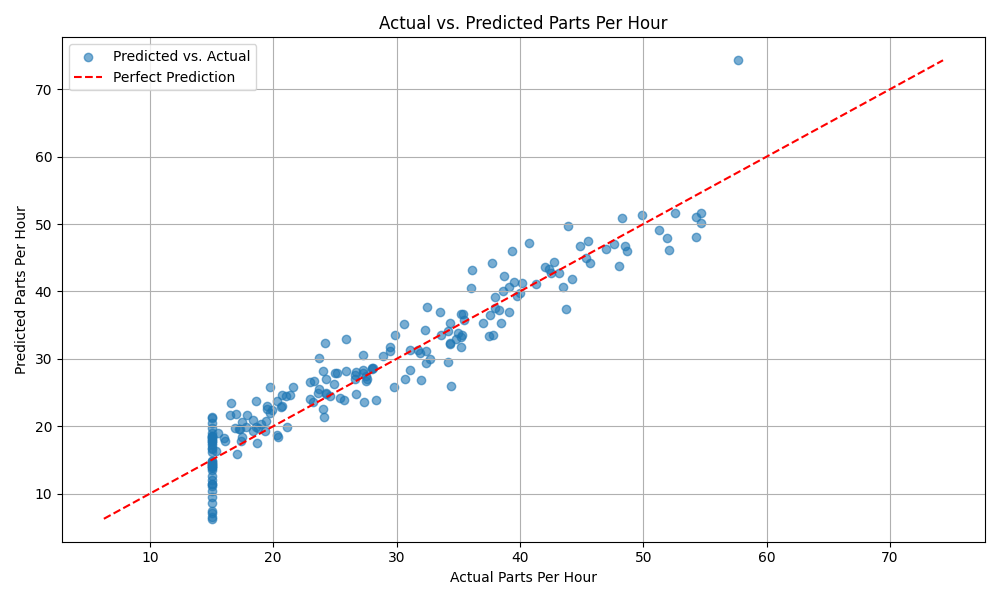
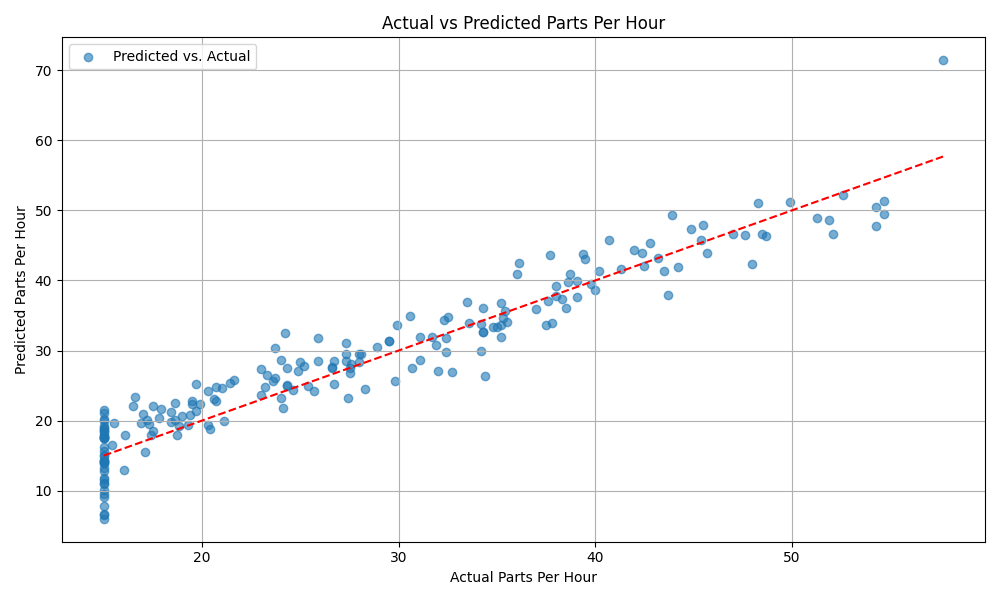
Add files via upload

diff --git a/app.py b/app.py
@@ -2,127 +2,105 @@ import streamlit as st
 import pickle
 import pandas as pd
 import numpy as np
-import os
 
-# Define the path to the saved model
+# --- Load Model and Feature Order ---
 model_path = 'linear_regression_model_all_features.pkl'
+features_path = 'trained_features.pkl'
 
-# Load the saved model
 try:
-    with open(model_path, 'rb') as file:
-        model = pickle.load(file)
-except FileNotFoundError:
-    st.error(f"Error: Model file '{model_path}' not found. Please run the Python script in the Canvas first.")
+    with open(model_path, 'rb') as f:
+        model = pickle.load(f)
+    with open(features_path, 'rb') as f:
+        trained_features = pickle.load(f)
+except FileNotFoundError as e:
+    st.error(f"Missing file: {e}")
     st.stop()
-except Exception as e:
-    st.error(f"Error loading model: {e}")
-    st.stop()
 
-# Set up the Streamlit app title and description
-st.title('Manufacturing Parts Per Hour Predictor')
-st.write('Use this app to predict the number of parts produced per hour based on manufacturing parameters.')
+# --- Streamlit UI ---
+st.title("Manufacturing Parts Per Hour Predictor")
+st.write("Predict number of parts produced per hour based on manufacturing parameters.")
 
-# Create a dictionary to hold the feature names and their default values.
-# This ensures that the order of the features matches the trained model.
-# NOTE: The one-hot encoded features must be included here with a default of 0.
-feature_defaults = {
-    'Injection_Temperature': 220.0,
-    'Injection_Pressure': 130.0,
-    'Cycle_Time': 30.0,
-    'Cooling_Time': 15.0,
-    'Material_Viscosity': 350.0,
-    'Ambient_Temperature': 25.0,
-    'Machine_Age': 5.0,
-    'Operator_Experience': 10.0,
-    'Maintenance_Hours': 50.0,
-    'Temperature_Pressure_Ratio': 1.692,
-    'Total_Cycle_Time': 45.0,
-    'Efficiency_Score': 0.05,
-    'Machine_Utilization': 0.6,
-    # One-hot encoded categorical features
-    'Shift_Night': 0,
-    'Shift_Evening': 0,
-    'Machine_Type_Type_B': 0,
-    'Machine_Type_Type_C': 0,
-    'Material_Grade_Standard': 0,
-    'Day_of_Week_Monday': 0,
-    'Day_of_Week_Saturday': 0,
-    'Day_of_Week_Sunday': 0,
-    'Day_of_Week_Thursday': 0,
-    'Day_of_Week_Tuesday': 0,
-    'Day_of_Week_Wednesday': 0
-}
-
-# Define a function to get user input for all features
+# --- User Input ---
 def user_input_features():
-    st.sidebar.header('Input Parameters')
-    
-    # Get user inputs for numerical features
-    injection_temp = st.sidebar.slider('Injection Temperature', 150.0, 300.0, feature_defaults['Injection_Temperature'])
-    injection_pressure = st.sidebar.slider('Injection Pressure', 100.0, 200.0, feature_defaults['Injection_Pressure'])
-    cycle_time = st.sidebar.slider('Cycle Time', 15.0, 60.0, feature_defaults['Cycle_Time'])
-    cooling_time = st.sidebar.slider('Cooling Time', 5.0, 30.0, feature_defaults['Cooling_Time'])
-    material_viscosity = st.sidebar.slider('Material Viscosity', 200.0, 500.0, feature_defaults['Material_Viscosity'])
-    ambient_temp = st.sidebar.slider('Ambient Temperature', 20.0, 35.0, feature_defaults['Ambient_Temperature'])
-    machine_age = st.sidebar.slider('Machine Age', 0.0, 20.0, feature_defaults['Machine_Age'])
-    operator_exp = st.sidebar.slider('Operator Experience', 0.0, 25.0, feature_defaults['Operator_Experience'])
-    maintenance_hours = st.sidebar.slider('Maintenance Hours', 0.0, 100.0, feature_defaults['Maintenance_Hours'])
-    
-    # Get user inputs for categorical features using radio buttons or selectboxes
-    shift = st.sidebar.radio('Shift', ['Day', 'Evening', 'Night'])
-    machine_type = st.sidebar.radio('Machine Type', ['Type_A', 'Type_B', 'Type_C'])
-    material_grade = st.sidebar.radio('Material Grade', ['Economy', 'Standard'])
-    day_of_week = st.sidebar.selectbox('Day of Week', ['Monday', 'Tuesday', 'Wednesday', 'Thursday', 'Friday', 'Saturday', 'Sunday'])
+    st.sidebar.header("Input Parameters")
 
-    # Create a dictionary with the inputs, including one-hot encoded values
-    input_data = {
-        'Injection_Temperature': injection_temp,
-        'Injection_Pressure': injection_pressure,
-        'Cycle_Time': cycle_time,
-        'Cooling_Time': cooling_time,
-        'Material_Viscosity': material_viscosity,
-        'Ambient_Temperature': ambient_temp,
-        'Machine_Age': machine_age,
-        'Operator_Experience': operator_exp,
-        'Maintenance_Hours': maintenance_hours,
-        # Calculated features
-        'Temperature_Pressure_Ratio': injection_temp / injection_pressure,
-        'Total_Cycle_Time': cycle_time + cooling_time,
-        'Efficiency_Score': (injection_temp / injection_pressure) / cycle_time,
-        'Machine_Utilization': (cycle_time / (cycle_time + cooling_time + 10)) # A simplified example
-    }
-    
-    # Add one-hot encoded features
-    input_data['Shift_Night'] = 1 if shift == 'Night' else 0
-    input_data['Shift_Evening'] = 1 if shift == 'Evening' else 0
-    input_data['Machine_Type_Type_B'] = 1 if machine_type == 'Type_B' else 0
-    input_data['Machine_Type_Type_C'] = 1 if machine_type == 'Type_C' else 0
-    input_data['Material_Grade_Standard'] = 1 if material_grade == 'Standard' else 0
-    
-    days = ['Monday', 'Tuesday', 'Wednesday', 'Thursday', 'Saturday', 'Sunday']
-    for day in days:
-        input_data[f'Day_of_Week_{day}'] = 1 if day_of_week == day else 0
+    # Base numerical inputs
+    injection_temp = st.sidebar.slider('Injection Temperature', 150.0, 300.0, 220.0)
+    injection_pressure = st.sidebar.slider('Injection Pressure', 100.0, 200.0, 130.0)
+    cycle_time = st.sidebar.slider('Cycle Time', 15.0, 60.0, 30.0)
+    cooling_time = st.sidebar.slider('Cooling Time', 5.0, 30.0, 15.0)
+    material_viscosity = st.sidebar.slider('Material Viscosity', 200.0, 500.0, 350.0)
+    ambient_temp = st.sidebar.slider('Ambient Temperature', 20.0, 35.0, 25.0)
+    machine_age = st.sidebar.slider('Machine Age', 0.0, 20.0, 5.0)
+    operator_exp = st.sidebar.slider('Operator Experience', 0.0, 25.0, 10.0)
+    maintenance_hours = st.sidebar.slider('Maintenance Hours', 0.0, 100.0, 50.0)
 
-    # The model was trained with 'Friday' as the reference category, so it's not needed here
-    
-    # Ensure all features from the trained model are present, even if not directly from user input
-    # This is a robust way to handle any missing features from the UI
-    final_data = {key: input_data.get(key, 0) for key in feature_defaults.keys()}
-    
-    # Convert the dictionary to a pandas DataFrame in the correct order
-    features = pd.DataFrame([final_data], columns=list(feature_defaults.keys()))
-    return features
+    # Categoricals
+    shift = st.sidebar.radio("Shift", ["Day", "Evening", "Night"])
+    machine_type = st.sidebar.radio("Machine Type", ["Type_A", "Type_B", "Type_C"])
+    material_grade = st.sidebar.radio("Material Grade", ["Economy", "Standard", "Premium"])
+    day_of_week = st.sidebar.selectbox("Day of Week", ["Monday","Tuesday","Wednesday","Thursday","Friday","Saturday","Sunday"])
 
-# Get the user's input features
+    # --- Build DataFrame with same columns/order as training ---
+    input_df = pd.DataFrame(np.zeros((1, len(trained_features))), columns=trained_features)
+
+    # Fill numerical
+    input_df['Injection_Temperature'] = injection_temp
+    input_df['Injection_Pressure'] = injection_pressure
+    input_df['Cycle_Time'] = cycle_time
+    input_df['Cooling_Time'] = cooling_time
+    input_df['Material_Viscosity'] = material_viscosity
+    input_df['Ambient_Temperature'] = ambient_temp
+    input_df['Machine_Age'] = machine_age
+    input_df['Operator_Experience'] = operator_exp
+    input_df['Maintenance_Hours'] = maintenance_hours
+
+    # Engineered features (must match training)
+    input_df['Temperature_Pressure_Ratio'] = injection_temp / injection_pressure
+    input_df['Total_Cycle_Time'] = cycle_time + cooling_time
+    input_df['Efficiency_Score'] = (injection_temp / injection_pressure) / cycle_time
+    input_df['Machine_Utilization'] = input_df['Total_Cycle_Time'] / (input_df['Total_Cycle_Time'] + 10)
+
+    # One-hot encoding
+    if shift == "Evening":
+        col = "Shift_Evening"
+        if col in input_df.columns: input_df[col] = 1
+    elif shift == "Night":
+        col = "Shift_Night"
+        if col in input_df.columns: input_df[col] = 1
+
+    if machine_type == "Type_B":
+        col = "Machine_Type_Type_B"
+        if col in input_df.columns: input_df[col] = 1
+    elif machine_type == "Type_C":
+        col = "Machine_Type_Type_C"
+        if col in input_df.columns: input_df[col] = 1
+
+    if material_grade == "Standard":
+        col = "Material_Grade_Standard"
+        if col in input_df.columns: input_df[col] = 1
+    elif material_grade == "Premium":
+        col = "Material_Grade_Premium"
+        if col in input_df.columns: input_df[col] = 1
+
+    if day_of_week != "Friday":
+        col = f"Day_of_Week_{day_of_week}"
+        if col in input_df.columns: input_df[col] = 1
+
+    return input_df
+
+# Collect user input
 df_input = user_input_features()
 
-# Display the user inputs
-st.subheader('User Input Parameters')
-st.write(df_input)
+# Show input
+st.subheader("User Input Parameters")
+st.dataframe(df_input)
 
-# Make a prediction
-prediction = model.predict(df_input)
-
-# Display the prediction
-st.subheader('Predicted Parts Per Hour')
-st.write(f'{prediction[0]:.2f} parts per hour')
+# --- Prediction ---
+try:
+    prediction = model.predict(df_input)
+    st.subheader("Predicted Parts Per Hour")
+    st.write(f"**{prediction[0]:.2f} parts per hour** 🚀")
+except Exception as e:
+    st.error(f"Prediction Error: {e}")
+    st.warning("Ensure trained_features.pkl and input feature order are correct.")

diff --git a/Linear_regr.py b/Linear_regr.py
@@ -12,80 +12,61 @@ df = pd.read_csv('manufacturing_dataset_1000_samples.csv')
 # Drop the 'Timestamp' column as it's not a feature for the model
 df = df.drop('Timestamp', axis=1)
 
+# --- Feature Engineering (numerical derived features) ---
+df['Temperature_Pressure_Ratio'] = df['Injection_Temperature'] / df['Injection_Pressure']
+df['Total_Cycle_Time'] = df['Cycle_Time'] + df['Cooling_Time']
+df['Efficiency_Score'] = (df['Injection_Temperature'] / df['Injection_Pressure']) / df['Cycle_Time']
+df['Machine_Utilization'] = df['Total_Cycle_Time'] / (df['Total_Cycle_Time'] + 10)
+
 # Identify features (X) and target (y)
-# The target variable is 'Parts_Per_Hour'
 y = df['Parts_Per_Hour']
-# The features are all other columns
 X = df.drop('Parts_Per_Hour', axis=1)
 
-# --- Feature Engineering: Handle Categorical Variables ---
-# Identify categorical columns
+# --- Handle Categorical Variables ---
 categorical_cols = X.select_dtypes(include=['object']).columns
-
-# Apply one-hot encoding to the categorical columns
 X = pd.get_dummies(X, columns=categorical_cols, drop_first=True)
 
-# --- Pre-processing: Handle Missing Values ---
-# Check for missing values in the prepared features
-print("Missing values before imputation:")
-print(X.isnull().sum())
-
-# Impute missing values with the mean of each column
+# --- Handle Missing Values ---
 X = X.fillna(X.mean())
 
-# Verify that there are no more missing values
-print("\nMissing values after imputation:")
-print(X.isnull().sum())
-
-# --- Model Training and Testing ---
-# Split the data into training and testing sets
+# --- Train/Test Split ---
 X_train, X_test, y_train, y_test = train_test_split(X, y, test_size=0.2, random_state=42)
 
-# Create and train the model
+# Train the model
 model = LinearRegression()
 model.fit(X_train, y_train)
 
-# --- Test the model's performance on the test data ---
-print("\n--- Model Performance Evaluation ---")
+# --- Evaluate Model ---
 y_pred = model.predict(X_test)
-
-# Calculate key metrics
 mae = mean_absolute_error(y_test, y_pred)
 mse = mean_squared_error(y_test, y_pred)
 r2 = r2_score(y_test, y_pred)
 
-print(f"Mean Absolute Error (MAE): {mae:.2f}")
-print(f"Mean Squared Error (MSE): {mse:.2f}")
-print(f"R-squared (R^2) Score: {r2:.4f}")
+print("\n--- Model Performance ---")
+print(f"MAE: {mae:.2f}, MSE: {mse:.2f}, R²: {r2:.4f}")
 
-# Optional: Print the coefficients to see the impact of each feature
-print("\n--- Model Coefficients ---")
+# Save coefficients (optional)
 coefficients = pd.DataFrame(model.coef_, X.columns, columns=['Coefficient'])
-print(coefficients)
+print("\n--- Model Coefficients ---")
+print(coefficients.head())
 
-# --- Visualize the Model's Performance ---
+# Save scatter plot
 plt.figure(figsize=(10, 6))
 plt.scatter(y_test, y_pred, alpha=0.6, label='Predicted vs. Actual')
-plt.title('Actual vs. Predicted Parts Per Hour')
+plt.plot([y_test.min(), y_test.max()], [y_test.min(), y_test.max()], 'r--')
+plt.title('Actual vs Predicted Parts Per Hour')
 plt.xlabel('Actual Parts Per Hour')
 plt.ylabel('Predicted Parts Per Hour')
-plt.grid(True)
-
-# Plot the perfect prediction line (y = x)
-max_val = max(y_test.max(), y_pred.max())
-min_val = min(y_test.min(), y_pred.min())
-plt.plot([min_val, max_val], [min_val, max_val], 'r--', label='Perfect Prediction')
-
 plt.legend()
+plt.grid(True)
 plt.tight_layout()
-
-# Save the plot to a file
 plt.savefig('prediction_scatter_plot.png')
-print("\nScatter plot saved as 'prediction_scatter_plot.png'")
 
-# --- Save the trained model ---
+# --- Save Model and Feature Order ---
 with open('linear_regression_model_all_features.pkl', 'wb') as file:
     pickle.dump(model, file)
 
-print("\nModel saved as linear_regression_model_all_features.pkl")
-print("\nModel training, evaluation, and visualization complete!")
+with open('trained_features.pkl', 'wb') as f:
+    pickle.dump(X.columns.tolist(), f)
+
+print("\n✅ Model and trained_features.pkl saved successfully.")
